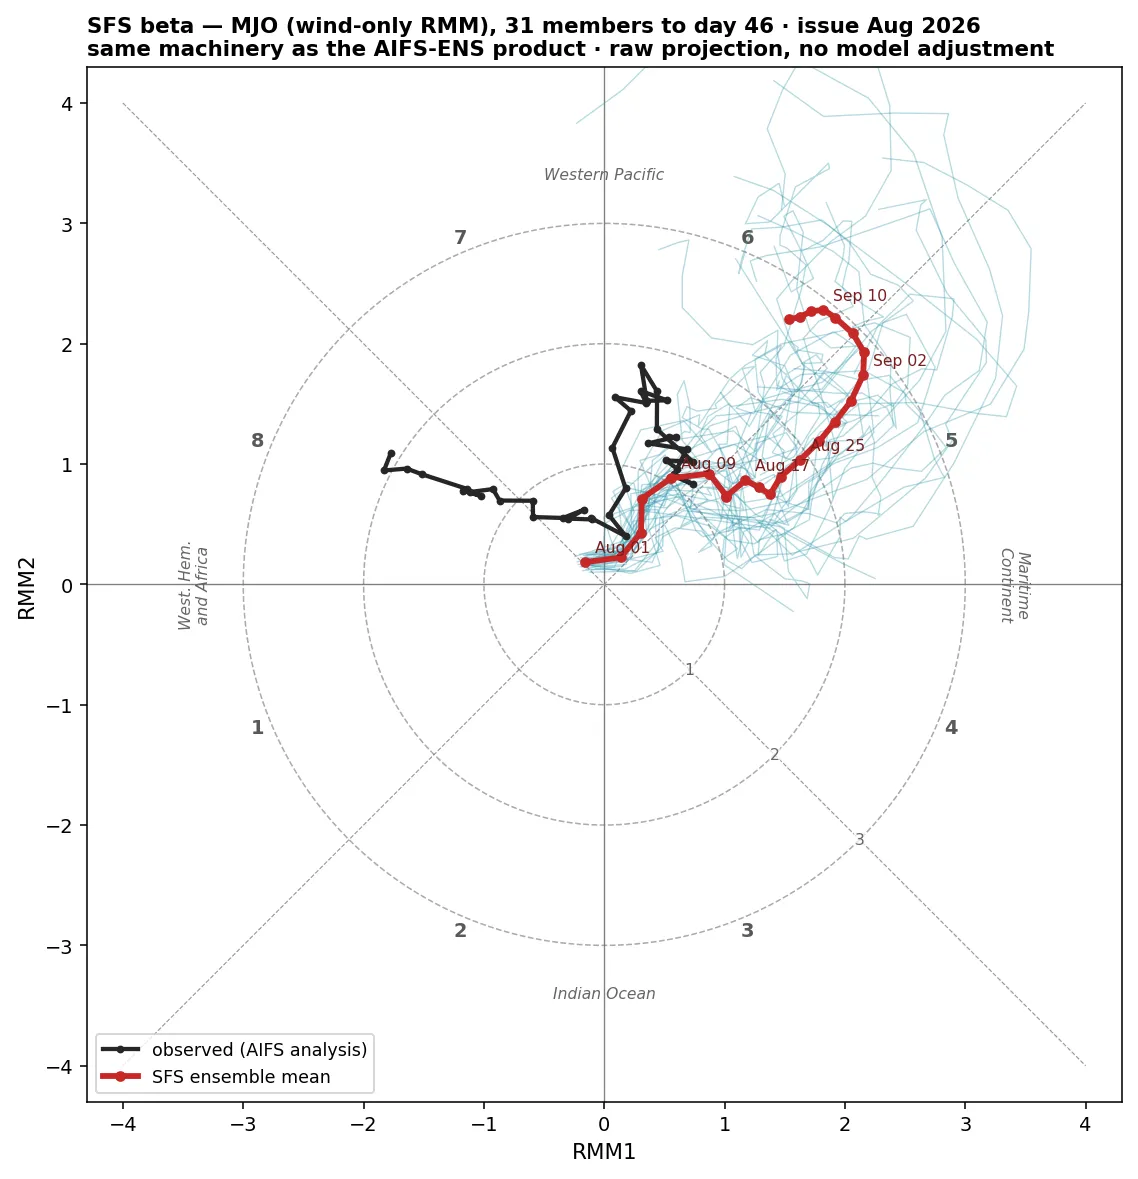
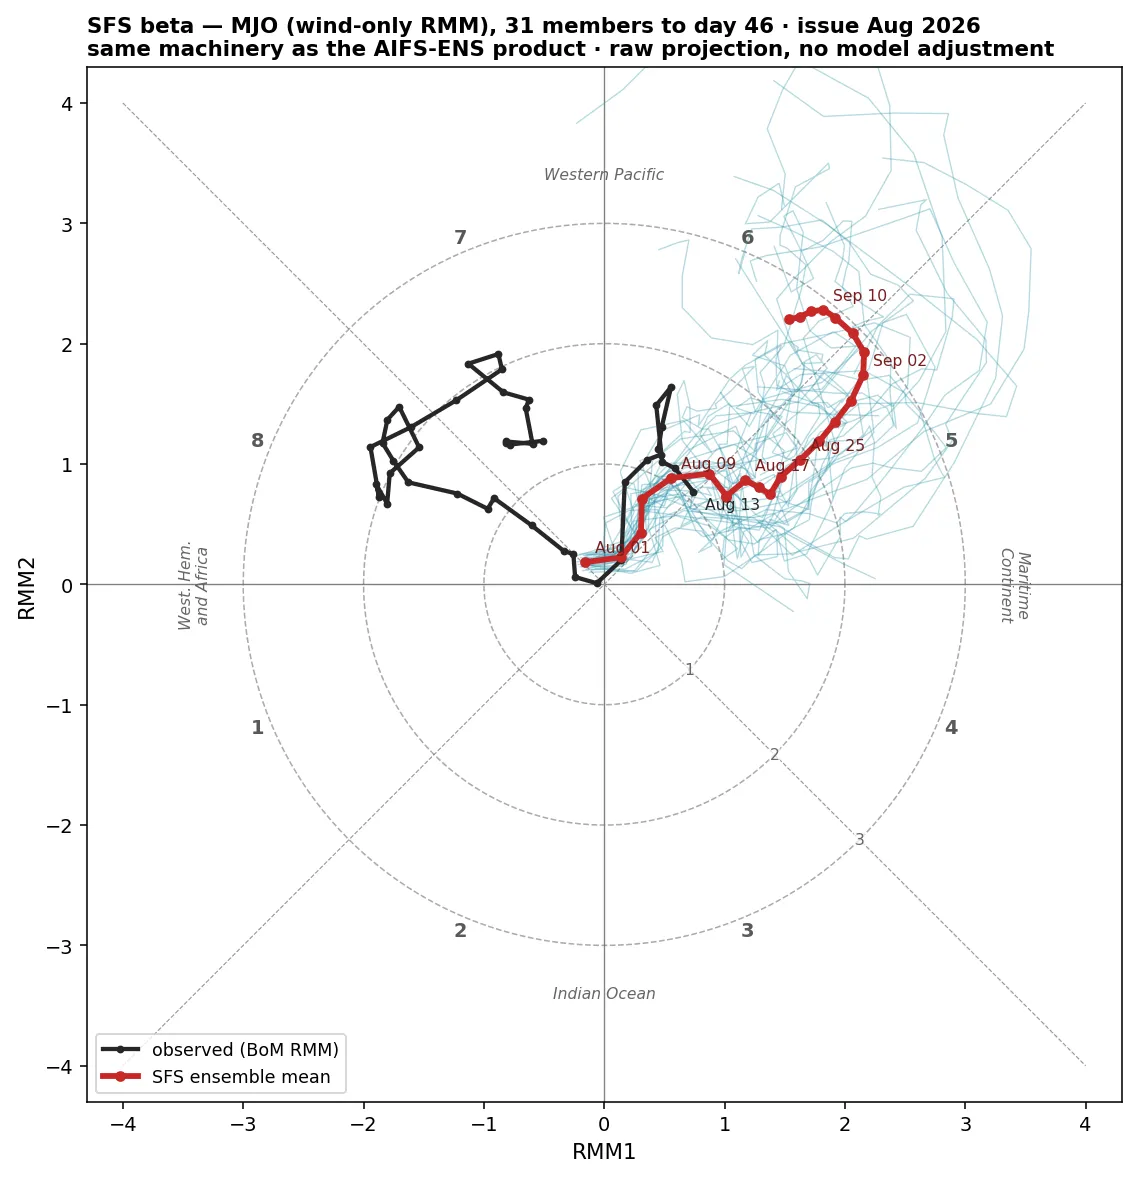
SFS MJO: observed trail is now the official BoM RMM
fetch_bom_rmm(): last 45 days of RMM1/RMM2 from the IRI Data Library
mirror (bom.gov.au blocks direct downloads), daily points; falls back to
the AIFS-analysis obs_history on any fetch failure so the monthly cron
never dies on a mirror outage. Obs series + source also added to
sfs_mjo.json; endpoint date annotated on the plot.

Changed region(s): [[0.3076, 0.3053, 0.6151, 0.4885], [0.2153, 0.8855, 0.3383, 0.916], [0.3998, 0.3053, 0.4613, 0.3359]]

diff --git a/sfs.html b/sfs.html
@@ -265,8 +265,9 @@
     The projection is raw &mdash; no model-specific bias or drift adjustment is
     applied &mdash; so at week-4+ leads the model's own tropical wind drift can
     read as slowly growing amplitude. Teal spaghetti: members (every other day);
-    red: ensemble mean; black: recent observed track (verified within a few
-    degrees of the official BoM RMM phase).</p>
+    red: ensemble mean; black: the observed track from the <em>official</em>
+    BoM RMM index (the model forecast is wind-only, so a modest amplitude
+    offset against the full official index is expected).</p>
     <img src="assets/sfs/mjo_rmm.webp" alt="SFS beta MJO RMM phase-space forecast, 31 members"
       style="width:100%;max-width:820px;display:block;margin:0 auto;border-radius:8px" loading="lazy">
     <div class="chart-card-footer">

diff --git a/scripts/sfs/sfs_mjo.py b/scripts/sfs/sfs_mjo.py
@@ -56,6 +56,39 @@ def band_mean(u, lat):
     return (u[..., m, :] * w[:, None]).sum(axis=-2) / w.sum()
 
 
+def fetch_bom_rmm(days_back=45):
+    """Official BoM RMM via the IRI Data Library mirror (bom.gov.au blocks
+    direct downloads). Returns (dates, rmm1, rmm2) or None on any failure —
+    the caller falls back to the site's own AIFS-analysis history so the
+    monthly cron never dies on a mirror outage."""
+    import urllib.request
+    from urllib.parse import quote
+    t1 = datetime.now(timezone.utc)
+    t0 = t1 - pd.Timedelta(days=days_back)
+    d0, d1 = t0.strftime("%d %b %Y"), t1.strftime("%d %b %Y")
+    try:
+        out = {}
+        for var in ("RMM1", "RMM2"):
+            url = (f"http://iridl.ldeo.columbia.edu/SOURCES/.BoM/.MJO/.RMM/"
+                   f".{var}/T/{quote(f'(0000 {d0})')}/{quote(f'(0000 {d1})')}/"
+                   "RANGE/gridtable.tsv")
+            with urllib.request.urlopen(url, timeout=60) as r:
+                rows = [ln.split() for ln in
+                        r.read().decode().splitlines()[2:] if ln.strip()]
+            jd = np.array([float(a) for a, _ in rows])
+            out[var] = (jd, np.array([float(b) for _, b in rows]))
+        jd1, v1 = out["RMM1"]
+        jd2, v2 = out["RMM2"]
+        if len(jd1) < 10 or len(jd1) != len(jd2) or not np.allclose(jd1, jd2):
+            return None
+        dates = pd.to_datetime(jd1 - 2440587.5, unit="D").normalize()
+        return dates, v1, v2
+    except Exception as e:
+        print(f"BoM RMM fetch failed ({e}); falling back to AIFS analysis",
+              flush=True)
+        return None
+
+
 def main():
     ap = argparse.ArgumentParser()
     ap.add_argument("--issue", default=datetime.now(timezone.utc).strftime("%Y%m"))
@@ -105,9 +138,17 @@ def main():
           f"{rmm2[:, 0].mean():+.2f}) amp "
           f"{np.hypot(rmm1, rmm2)[:, 0].mean():.2f}")
 
-    # observed trail for context (already RMM-scaled)
-    obs = xr.open_dataset(MREF / "obs_history.nc")
-    otr = obs.isel(time=slice(-40, None))
+    # observed trail: official BoM RMM (IRI mirror), AIFS analysis fallback
+    bom = fetch_bom_rmm()
+    if bom is not None:
+        obs_dates, o1, o2 = bom
+        obs_label = "observed (BoM RMM)"
+    else:
+        obs = xr.open_dataset(MREF / "obs_history.nc")
+        otr = obs.isel(time=slice(-40, None))
+        obs_dates = pd.to_datetime(otr.time.values)
+        o1, o2 = otr.rmm1.values, otr.rmm2.values
+        obs_label = "observed (AIFS analysis)"
 
     # ── WH04 phase diagram — same wheel as the AIFS-ENS product ─────────────
     sys.path.insert(0, str(REPO / "scripts" / "mjo" / "src"))
@@ -116,8 +157,9 @@ def main():
     draw_phase_wheel(ax)
     for m in range(rmm1.shape[0]):
         ax.plot(rmm1[m], rmm2[m], color="#2e97ad", lw=0.7, alpha=0.35)
-    ax.plot(otr.rmm1, otr.rmm2, color="0.15", lw=2.2, marker="o", ms=3,
-            label="observed (AIFS analysis)")
+    ax.plot(o1, o2, color="0.15", lw=2.2, marker="o", ms=3, label=obs_label)
+    ax.annotate(f"{obs_dates[-1]:%b %d}", (o1[-1], o2[-1]), fontsize=8,
+                color="0.15", xytext=(6, -9), textcoords="offset points")
     mm1, mm2 = rmm1.mean(axis=0), rmm2.mean(axis=0)
     ax.plot(mm1, mm2, color="#c62828", lw=3, marker="o", ms=4.5,
             label="SFS ensemble mean")
@@ -141,6 +183,10 @@ def main():
         "days": [f"{v:%Y-%m-%d}" for v in valid],
         "rmm1": np.round(rmm1, 3).tolist(),
         "rmm2": np.round(rmm2, 3).tolist(),
+        "obs": {"source": obs_label,
+                "days": [f"{d:%Y-%m-%d}" for d in obs_dates],
+                "rmm1": np.round(o1, 3).tolist(),
+                "rmm2": np.round(o2, 3).tolist()},
         "filter_window_end": m120.attrs.get("window_end", "?"),
     }, separators=(",", ":")))
     print(f"wrote {OUTPNG.relative_to(REPO)} + sfs_mjo.json")
